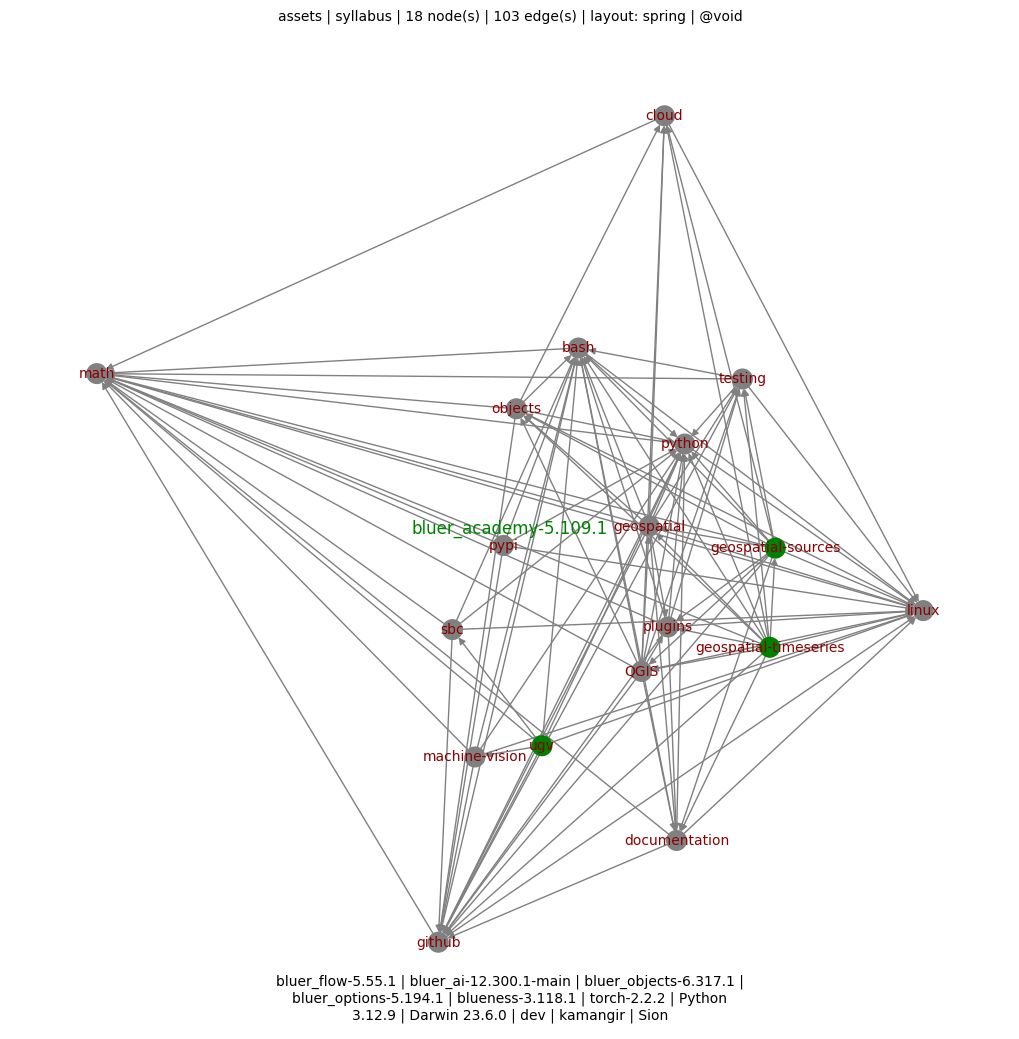
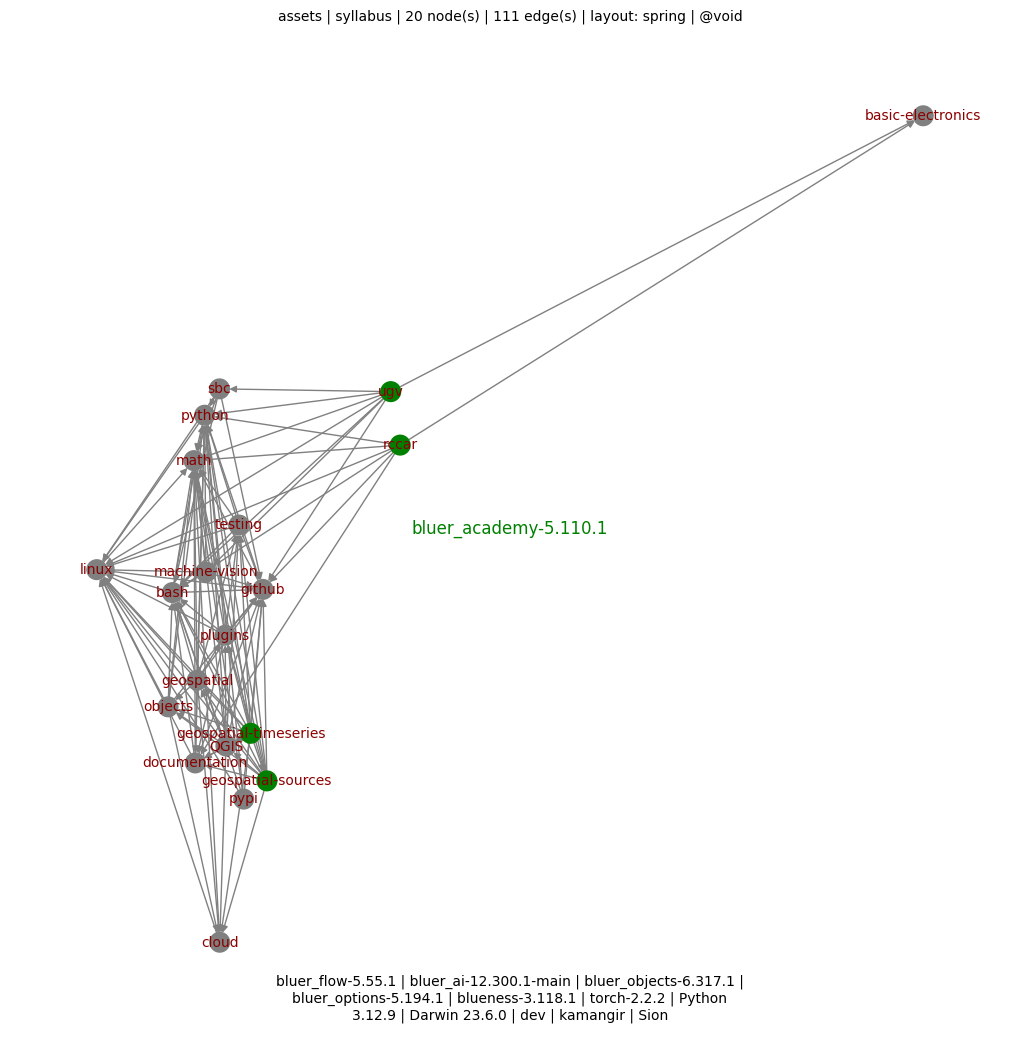
++ - kamangir/bolt#746

diff --git a/bluer_academy/academy/syllabus/rccar.py b/bluer_academy/academy/syllabus/rccar.py
@@ -1,0 +1,28 @@
+from bluer_objects.README.consts import assets_url
+
+
+from bluer_academy.academy.classes.topic import Topic
+from bluer_academy.academy.syllabus.consts import bluer_ugv_tree, bluer_ugv_blob
+
+topic = Topic(
+    "rccar",
+    [
+        f"[remote control car]({bluer_ugv_tree}/docs/ravin)",
+    ],
+    duration=6,
+    requires="documentation,basic-electronics",
+    items={
+        "{}/20250723_095155~2_1.gif".format(
+            assets_url(
+                suffix="ravin3",
+                volume=2,
+            )
+        ): f"{bluer_ugv_blob}/docs/ravin/ravin3",
+        "{}/20251014_164022.jpg".format(
+            assets_url(
+                suffix="ravin4",
+                volume=2,
+            )
+        ): f"{bluer_ugv_blob}/docs/ravin/ravin3",
+    },
+)

diff --git a/bluer_academy/academy/syllabus/__init__.py b/bluer_academy/academy/syllabus/__init__.py
@@ -1,6 +1,7 @@
 from bluer_academy.academy.classes.syllabus import Syllabus
 from bluer_academy.academy.syllabus import (
     bash,
+    basic_electronics,
     cloud,
     documentation,
     geospatial,
@@ -15,6 +16,7 @@ from bluer_academy.academy.syllabus import (
     pypi,
     python,
     QGIS,
+    rccar,
     sbc,
     testing,
     ugv,
@@ -25,6 +27,7 @@ syllabus = Syllabus(
         module.topic
         for module in [
             bash,
+            basic_electronics,
             cloud,
             documentation,
             geospatial,
@@ -39,6 +42,7 @@ syllabus = Syllabus(
             pypi,
             python,
             QGIS,
+            rccar,
             sbc,
             testing,
             ugv,

diff --git a/bluer_academy/academy/syllabus/consts.py b/bluer_academy/academy/syllabus/consts.py
@@ -6,5 +6,5 @@ bluer_geo_blob = f"{bluer_geo_root}/blob/main/bluer_geo"
 bluer_geo_tree = f"{bluer_geo_root}/tree/main/bluer_geo"
 
 bluer_ugv_root = "https://github.com/kamangir/bluer-ugv"
-bluer_ugv_blob = f"{bluer_ugv_root}/blob/main/bluer_geo"
-bluer_ugv_tree = f"{bluer_ugv_root}/tree/main/bluer_geo"
+bluer_ugv_blob = f"{bluer_ugv_root}/blob/main/bluer_ugv"
+bluer_ugv_tree = f"{bluer_ugv_root}/tree/main/bluer_ugv"

diff --git a/bluer_academy/academy/syllabus/basic_electronics.py b/bluer_academy/academy/syllabus/basic_electronics.py
@@ -1,0 +1,15 @@
+from bluer_academy.academy.classes.topic import Topic
+
+topic = Topic(
+    "basic-electronics",
+    [
+        "basic electronics",
+        "voltage conversion",
+        "soldiering, working with electronic parts",
+        "sourcing electronic parts",
+        "motor drivers and pwm",
+        "wireless control",
+        "ultrasonic sensors",
+    ],
+    duration=3,
+)

diff --git a/bluer_academy/academy/syllabus/ugv.py b/bluer_academy/academy/syllabus/ugv.py
@@ -16,7 +16,7 @@ topic = Topic(
         f"[PCB prototyping]({bluer_ugv_tree}/docs/swallow/digital/design/shield.md)",
     ],
     duration=12,
-    requires="sbc,machine-vision",
+    requires="sbc,machine-vision,basic-electronics",
     items={
         assets_url(suffix="arzhang/VID-20250905-WA0014_1.gif"): bluer_ugv_root,
     },

diff --git a/bluer_academy/__init__.py b/bluer_academy/__init__.py
@@ -4,7 +4,7 @@ ICON = "📐"
 
 DESCRIPTION = f"{ICON} an academy for practical AI in Iran."
 
-VERSION = "5.109.1"
+VERSION = "5.110.1"
 
 REPO_NAME = "bluer-academy"
 

diff --git a/bluer_academy/docs/academy/README.md b/bluer_academy/docs/academy/README.md
@@ -4,27 +4,29 @@
 
 ## syllabus
 
-| capstone project? | duration (hours) | duration, including requirements (hours) | depends on: | [math](./syllabus/math.md) | [linux](./syllabus/linux.md) | [cloud](./syllabus/cloud.md) | [github](./syllabus/github.md) | [python](./syllabus/python.md) | [bash](./syllabus/bash.md) | [doc...](./syllabus/documentation.md) | [mac...](./syllabus/machine-vision.md) | [obj...](./syllabus/objects.md) | [pypi](./syllabus/pypi.md) | [sbc](./syllabus/sbc.md) | [tes...](./syllabus/testing.md) | [plu...](./syllabus/plugins.md) | [ugv](./syllabus/ugv.md) | [geo...](./syllabus/geospatial.md) | [QGIS](./syllabus/QGIS.md) | [geo...](./syllabus/geospatial-sources.md) | [geo...](./syllabus/geospatial-timeseries.md) |
-|-|-|-|-|-|-|-|-|-|-|-|-|-|-|-|-|-|-|-|-|-|-|
-|  | 3.0 | 3.0 | [math](./syllabus/math.md) |  |  |  |  |  |  |  |  |  |  |  |  |  |  |  |  |  |  |
-|  | 3.0 | 6.0 | [linux](./syllabus/linux.md) | ℹ |  |  |  |  |  |  |  |  |  |  |  |  |  |  |  |  |  |
-|  | 6.0 | 12.0 | [cloud](./syllabus/cloud.md) | ℹ | ℹ |  |  |  |  |  |  |  |  |  |  |  |  |  |  |  |  |
-|  | 3.0 | 9.0 | [github](./syllabus/github.md) | ℹ | ℹ |  |  |  |  |  |  |  |  |  |  |  |  |  |  |  |  |
-|  | 12.0 | 21.0 | [python](./syllabus/python.md) | ℹ | ℹ |  | ℹ |  |  |  |  |  |  |  |  |  |  |  |  |  |  |
-|  | 3.0 | 24.0 | [bash](./syllabus/bash.md) | ℹ | ℹ |  | ℹ | ℹ |  |  |  |  |  |  |  |  |  |  |  |  |  |
-|  | 3.0 | 27.0 | [documentation](./syllabus/documentation.md) | ℹ | ℹ |  | ℹ | ℹ | ℹ |  |  |  |  |  |  |  |  |  |  |  |  |
-|  | 12.0 | 36.0 | [machine-vision](./syllabus/machine-vision.md) | ℹ | ℹ |  | ℹ | ℹ | ℹ |  |  |  |  |  |  |  |  |  |  |  |  |
-|  | 3.0 | 33.0 | [objects](./syllabus/objects.md) | ℹ | ℹ | ℹ | ℹ | ℹ | ℹ |  |  |  |  |  |  |  |  |  |  |  |  |
-|  | 3.0 | 27.0 | [pypi](./syllabus/pypi.md) | ℹ | ℹ |  | ℹ | ℹ | ℹ |  |  |  |  |  |  |  |  |  |  |  |  |
-|  | 3.0 | 27.0 | [sbc](./syllabus/sbc.md) | ℹ | ℹ |  | ℹ | ℹ | ℹ |  |  |  |  |  |  |  |  |  |  |  |  |
-|  | 6.0 | 30.0 | [testing](./syllabus/testing.md) | ℹ | ℹ |  | ℹ | ℹ | ℹ |  |  |  |  |  |  |  |  |  |  |  |  |
-|  | 3.0 | 36.0 | [plugins](./syllabus/plugins.md) | ℹ | ℹ |  | ℹ | ℹ | ℹ | ℹ |  |  |  |  | ℹ |  |  |  |  |  |  |
-| 📐 | 12.0 | 51.0 | [ugv](./syllabus/ugv.md) | ℹ | ℹ |  | ℹ | ℹ | ℹ |  | ℹ |  |  | ℹ |  |  |  |  |  |  |  |
-|  | 6.0 | 51.0 | [geospatial](./syllabus/geospatial.md) | ℹ | ℹ | ℹ | ℹ | ℹ | ℹ | ℹ |  | ℹ |  |  | ℹ | ℹ |  |  |  |  |  |
-|  | 3.0 | 54.0 | [QGIS](./syllabus/QGIS.md) | ℹ | ℹ | ℹ | ℹ | ℹ | ℹ | ℹ |  | ℹ |  |  | ℹ | ℹ |  | ℹ |  |  |  |
-| 📐 | 6.0 | 60.0 | [geospatial-sources](./syllabus/geospatial-sources.md) | ℹ | ℹ | ℹ | ℹ | ℹ | ℹ | ℹ |  | ℹ |  |  | ℹ | ℹ |  | ℹ | ℹ |  |  |
-| 📐 | 6.0 | 66.0 | [geospatial-timeseries](./syllabus/geospatial-timeseries.md) | ℹ | ℹ | ℹ | ℹ | ℹ | ℹ | ℹ |  | ℹ |  |  | ℹ | ℹ |  | ℹ | ℹ | ℹ |  |
+| capstone project? | duration (hours) | duration, including requirements (hours) | depends on: | [bas...](./syllabus/basic-electronics.md) | [math](./syllabus/math.md) | [linux](./syllabus/linux.md) | [cloud](./syllabus/cloud.md) | [github](./syllabus/github.md) | [python](./syllabus/python.md) | [bash](./syllabus/bash.md) | [doc...](./syllabus/documentation.md) | [mac...](./syllabus/machine-vision.md) | [obj...](./syllabus/objects.md) | [pypi](./syllabus/pypi.md) | [sbc](./syllabus/sbc.md) | [tes...](./syllabus/testing.md) | [plu...](./syllabus/plugins.md) | [rccar](./syllabus/rccar.md) | [ugv](./syllabus/ugv.md) | [geo...](./syllabus/geospatial.md) | [QGIS](./syllabus/QGIS.md) | [geo...](./syllabus/geospatial-sources.md) | [geo...](./syllabus/geospatial-timeseries.md) |
+|-|-|-|-|-|-|-|-|-|-|-|-|-|-|-|-|-|-|-|-|-|-|-|-|
+|  | 3.0 | 3.0 | [basic-electronics](./syllabus/basic-electronics.md) |  |  |  |  |  |  |  |  |  |  |  |  |  |  |  |  |  |  |  |  |
+|  | 3.0 | 3.0 | [math](./syllabus/math.md) |  |  |  |  |  |  |  |  |  |  |  |  |  |  |  |  |  |  |  |  |
+|  | 3.0 | 6.0 | [linux](./syllabus/linux.md) |  | ℹ |  |  |  |  |  |  |  |  |  |  |  |  |  |  |  |  |  |  |
+|  | 6.0 | 12.0 | [cloud](./syllabus/cloud.md) |  | ℹ | ℹ |  |  |  |  |  |  |  |  |  |  |  |  |  |  |  |  |  |
+|  | 3.0 | 9.0 | [github](./syllabus/github.md) |  | ℹ | ℹ |  |  |  |  |  |  |  |  |  |  |  |  |  |  |  |  |  |
+|  | 12.0 | 21.0 | [python](./syllabus/python.md) |  | ℹ | ℹ |  | ℹ |  |  |  |  |  |  |  |  |  |  |  |  |  |  |  |
+|  | 3.0 | 24.0 | [bash](./syllabus/bash.md) |  | ℹ | ℹ |  | ℹ | ℹ |  |  |  |  |  |  |  |  |  |  |  |  |  |  |
+|  | 3.0 | 27.0 | [documentation](./syllabus/documentation.md) |  | ℹ | ℹ |  | ℹ | ℹ | ℹ |  |  |  |  |  |  |  |  |  |  |  |  |  |
+|  | 12.0 | 36.0 | [machine-vision](./syllabus/machine-vision.md) |  | ℹ | ℹ |  | ℹ | ℹ | ℹ |  |  |  |  |  |  |  |  |  |  |  |  |  |
+|  | 3.0 | 33.0 | [objects](./syllabus/objects.md) |  | ℹ | ℹ | ℹ | ℹ | ℹ | ℹ |  |  |  |  |  |  |  |  |  |  |  |  |  |
+|  | 3.0 | 27.0 | [pypi](./syllabus/pypi.md) |  | ℹ | ℹ |  | ℹ | ℹ | ℹ |  |  |  |  |  |  |  |  |  |  |  |  |  |
+|  | 3.0 | 27.0 | [sbc](./syllabus/sbc.md) |  | ℹ | ℹ |  | ℹ | ℹ | ℹ |  |  |  |  |  |  |  |  |  |  |  |  |  |
+|  | 6.0 | 30.0 | [testing](./syllabus/testing.md) |  | ℹ | ℹ |  | ℹ | ℹ | ℹ |  |  |  |  |  |  |  |  |  |  |  |  |  |
+|  | 3.0 | 36.0 | [plugins](./syllabus/plugins.md) |  | ℹ | ℹ |  | ℹ | ℹ | ℹ | ℹ |  |  |  |  | ℹ |  |  |  |  |  |  |  |
+| 📐 | 6.0 | 36.0 | [rccar](./syllabus/rccar.md) | ℹ | ℹ | ℹ |  | ℹ | ℹ | ℹ | ℹ |  |  |  |  |  |  |  |  |  |  |  |  |
+| 📐 | 12.0 | 54.0 | [ugv](./syllabus/ugv.md) | ℹ | ℹ | ℹ |  | ℹ | ℹ | ℹ |  | ℹ |  |  | ℹ |  |  |  |  |  |  |  |  |
+|  | 6.0 | 51.0 | [geospatial](./syllabus/geospatial.md) |  | ℹ | ℹ | ℹ | ℹ | ℹ | ℹ | ℹ |  | ℹ |  |  | ℹ | ℹ |  |  |  |  |  |  |
+|  | 3.0 | 54.0 | [QGIS](./syllabus/QGIS.md) |  | ℹ | ℹ | ℹ | ℹ | ℹ | ℹ | ℹ |  | ℹ |  |  | ℹ | ℹ |  |  | ℹ |  |  |  |
+| 📐 | 6.0 | 60.0 | [geospatial-sources](./syllabus/geospatial-sources.md) |  | ℹ | ℹ | ℹ | ℹ | ℹ | ℹ | ℹ |  | ℹ |  |  | ℹ | ℹ |  |  | ℹ | ℹ |  |  |
+| 📐 | 6.0 | 66.0 | [geospatial-timeseries](./syllabus/geospatial-timeseries.md) |  | ℹ | ℹ | ℹ | ℹ | ℹ | ℹ | ℹ |  | ℹ |  |  | ℹ | ℹ |  |  | ℹ | ℹ | ℹ |  |
 
-⏳ total duration: 96.0 hours
+⏳ total duration: 105.0 hours
 
 ![image](../../assets/syllabus.png)

diff --git a/bluer_academy/docs/academy/syllabus/ugv.md b/bluer_academy/docs/academy/syllabus/ugv.md
@@ -2,10 +2,10 @@
 
 includes:
 - unmanned ground vehicles: basics.
-- [ugv computer design](https://github.com/kamangir/bluer-ugv/blob/main/bluer_geo/docs/swallow/digital/design).
-- related technologies: power management, motor drivers, pwm, [ultrasonic sensors](https://github.com/kamangir/bluer-ugv/blob/main/bluer_geo/docs/swallow/digital/design/ultrasonic-sensor), [ble](https://github.com/kamangir/bluer-algo/blob/main/bluer_algo/docs/bps).
-- [PCB prototyping](https://github.com/kamangir/bluer-ugv/tree/main/bluer_geo/docs/swallow/digital/design/shield.md).
+- [ugv computer design](https://github.com/kamangir/bluer-ugv/blob/main/bluer_ugv/docs/swallow/digital/design).
+- related technologies: power management, motor drivers, pwm, [ultrasonic sensors](https://github.com/kamangir/bluer-ugv/blob/main/bluer_ugv/docs/swallow/digital/design/ultrasonic-sensor), [ble](https://github.com/kamangir/bluer-algo/blob/main/bluer_algo/docs/bps).
+- [PCB prototyping](https://github.com/kamangir/bluer-ugv/tree/main/bluer_ugv/docs/swallow/digital/design/shield.md).
 
-requires: [bash](./bash.md), [github](./github.md), [linux](./linux.md), [machine-vision](./machine-vision.md), [math](./math.md), [python](./python.md), [sbc](./sbc.md)
+requires: [bash](./bash.md), [basic-electronics](./basic-electronics.md), [github](./github.md), [linux](./linux.md), [machine-vision](./machine-vision.md), [math](./math.md), [python](./python.md), [sbc](./sbc.md)
 
 ⏳ duration: 12.0 hours

diff --git a/README.md b/README.md
@@ -15,4 +15,4 @@ pip install bluer-academy
 
 [![pylint](https://github.com/kamangir/bluer-academy/actions/workflows/pylint.yml/badge.svg)](https://github.com/kamangir/bluer-academy/actions/workflows/pylint.yml) [![pytest](https://github.com/kamangir/bluer-academy/actions/workflows/pytest.yml/badge.svg)](https://github.com/kamangir/bluer-academy/actions/workflows/pytest.yml) [![bashtest](https://github.com/kamangir/bluer-academy/actions/workflows/bashtest.yml/badge.svg)](https://github.com/kamangir/bluer-academy/actions/workflows/bashtest.yml) [![PyPI version](https://img.shields.io/pypi/v/bluer-academy.svg)](https://pypi.org/project/bluer-academy/) [![PyPI - Downloads](https://img.shields.io/pypi/dd/bluer-academy)](https://pypistats.org/packages/bluer-academy)
 
-built by 🌀 [`bluer README`](https://github.com/kamangir/bluer-objects/tree/main/bluer_objects/README), based on 📐 [`bluer_academy-5.109.1`](https://github.com/kamangir/bluer-academy).
+built by 🌀 [`bluer README`](https://github.com/kamangir/bluer-objects/tree/main/bluer_objects/README), based on 📐 [`bluer_academy-5.110.1`](https://github.com/kamangir/bluer-academy).

diff --git a/bluer_academy/docs/academy/syllabus/rccar.md b/bluer_academy/docs/academy/syllabus/rccar.md
@@ -1,0 +1,8 @@
+# academy: syllabus: rccar
+
+includes:
+- [remote control car](https://github.com/kamangir/bluer-ugv/tree/main/bluer_ugv/docs/ravin).
+
+requires: [bash](./bash.md), [basic-electronics](./basic-electronics.md), [documentation](./documentation.md), [github](./github.md), [linux](./linux.md), [math](./math.md), [python](./python.md)
+
+⏳ duration: 6.0 hours

diff --git a/bluer_academy/docs/academy/syllabus/basic-electronics.md b/bluer_academy/docs/academy/syllabus/basic-electronics.md
@@ -1,0 +1,13 @@
+# academy: syllabus: basic-electronics
+
+includes:
+- basic electronics.
+- voltage conversion.
+- soldiering, working with electronic parts.
+- sourcing electronic parts.
+- motor drivers and pwm.
+- wireless control.
+- ultrasonic sensors.
+
+
+⏳ duration: 3.0 hours

diff --git a/bluer_academy/docs/academy/syllabus/basic-electronics-template.md b/bluer_academy/docs/academy/syllabus/basic-electronics-template.md
@@ -1,0 +1,3 @@
+title:::
+
+content:::
